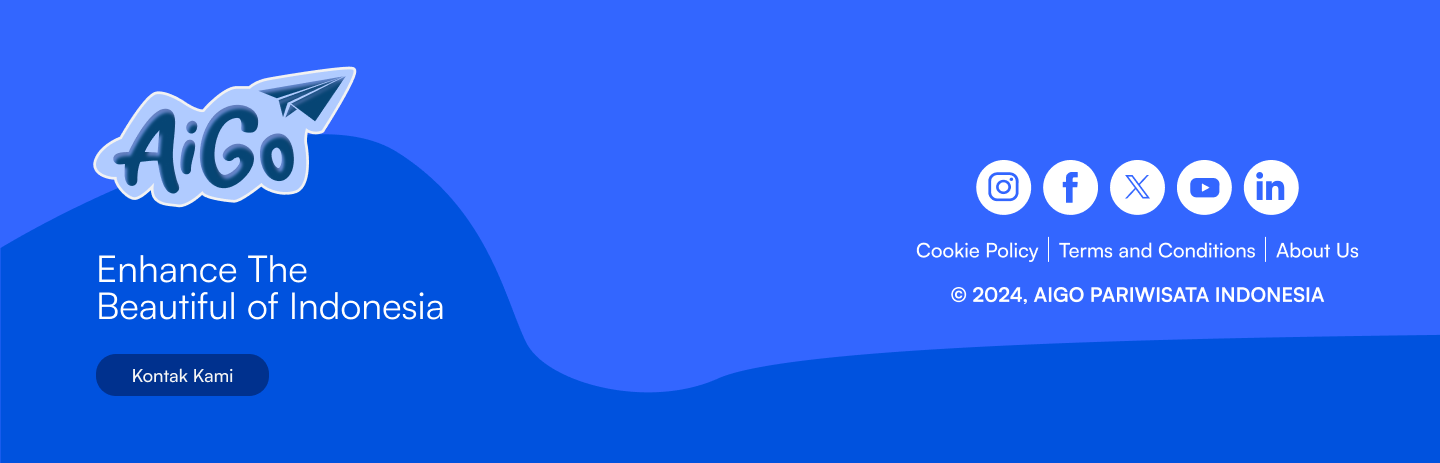
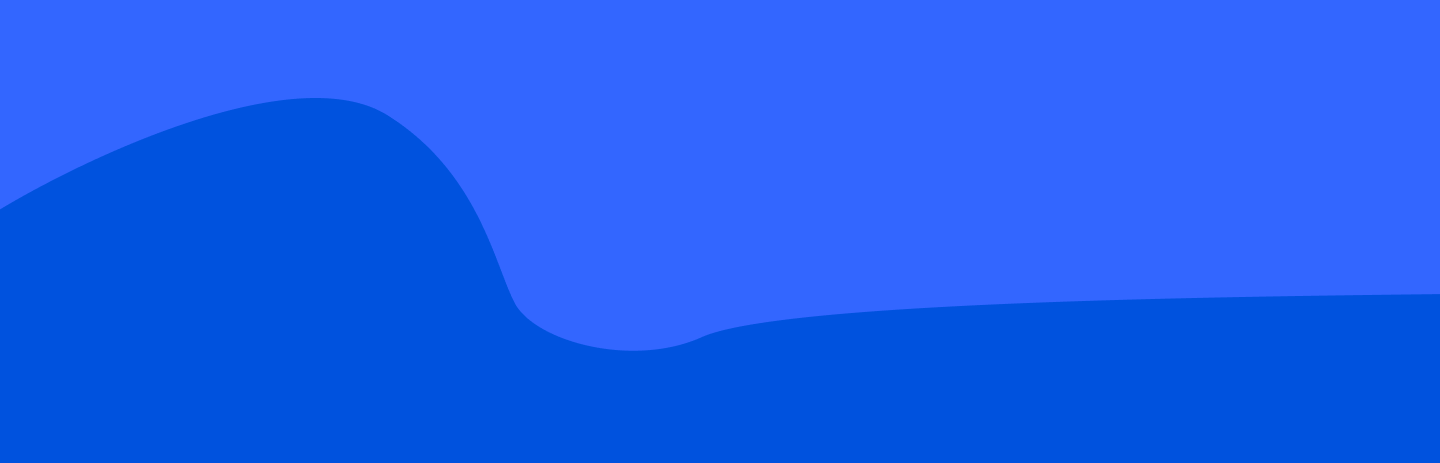
bg footer

diff --git a/css/artikel.css b/css/artikel.css
@@ -178,7 +178,7 @@ footer {
 }
 
 .footer {
-  background-color: #00318E;
+  background-image: url(/assets/footer-bg.png);
   display: flex;
   gap: 250px;
   box-sizing: border-box;

diff --git a/css/forum.css b/css/forum.css
@@ -371,7 +371,7 @@ footer {
 }
 
 .footer {
-  background-color: #00318E;
+  background-image: url(/assets/footer-bg.png);
   display: flex;
   gap: 250px;
   box-sizing: border-box;

diff --git a/css/homepage.css b/css/homepage.css
@@ -305,7 +305,7 @@ footer {
 }
 
 .footer {
-  background-color: #00318E;
+  background-image: url(/assets/footer-bg.png);
   display: flex;
   gap: 250px;
   box-sizing: border-box;

diff --git a/css/pertanyaan.css b/css/pertanyaan.css
@@ -394,7 +394,7 @@ footer {
 }
 
 .footer {
-  background-color: #00318E;
+  background-image: url(/assets/footer-bg.png);
   display: flex;
   gap: 250px;
   box-sizing: border-box;

diff --git a/css/tags.css b/css/tags.css
@@ -354,7 +354,7 @@ footer {
 }
 
 .footer {
-  background-color: #00318E;
+  background-image: url(/assets/footer-bg.png);
   display: flex;
   gap: 250px;
   box-sizing: border-box;

diff --git a/css/userrank.css b/css/userrank.css
@@ -350,7 +350,7 @@ footer {
 }
 
 .footer {
-  background-color: #00318E;
+  background-image: url(/assets/footer-bg.png);
   display: flex;
   gap: 250px;
   box-sizing: border-box;
